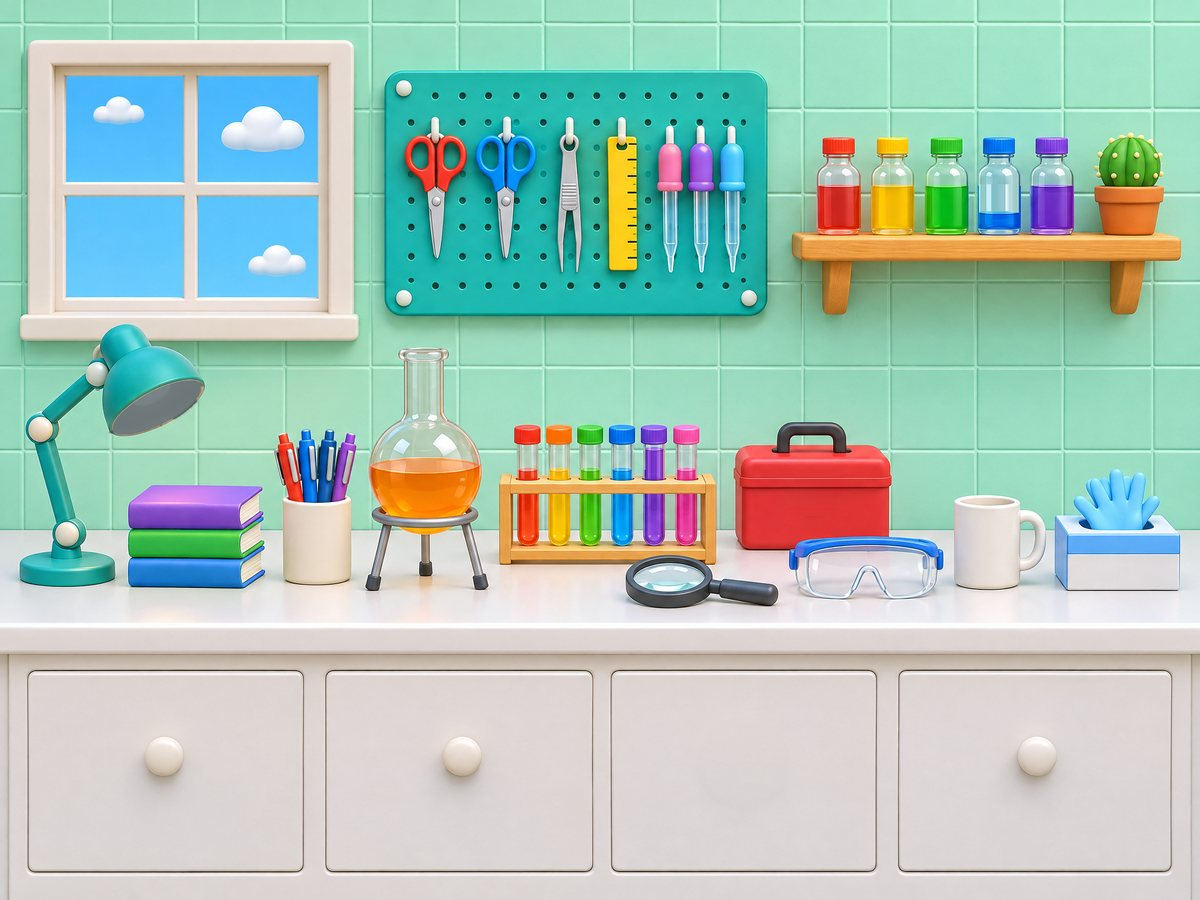
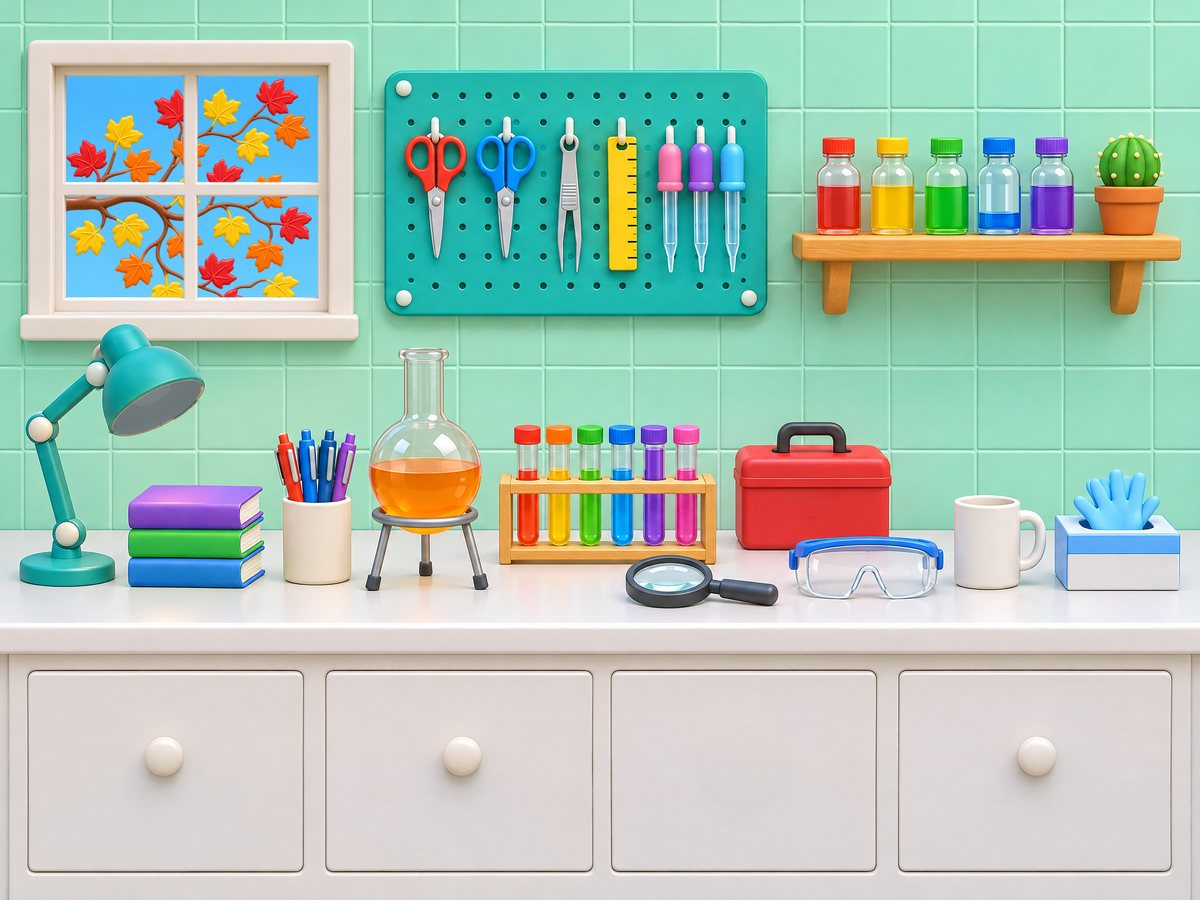
틀린그림 어려움: 창밖 단풍나무(힉스필드) + 잎 하나 색 차이 (v=47)

Changed region(s): [[0.0308, 0.0933, 0.2775, 0.3422]]

diff --git a/app.js b/app.js
@@ -29,7 +29,7 @@ function pauseWhenHidden(getT0, setT0, running) {
 }
 
 const C = { teal: '#0E9F8E', coral: '#EF5350' };
-const V = '?v=46';
+const V = '?v=47';
 const GAMES = [
   { id: 'spot', code: 'EXP-01', icon: 'icon_spot', bg: '#E2F1FF', title: '틀린그림찾기', desc: '실험실 그림 두 장에서 다른 곳 찾기 (쉬움·어려움)', time: '약 5–7분' },
   { id: 'cards', code: 'EXP-02', icon: 'icon_cards', bg: '#FFF1DC', title: '실험실 카드 뒤집기', desc: '단계마다 늘어나는 카드에서 같은 그림 짝 맞추기', time: '약 5–8분' },
@@ -175,7 +175,7 @@ const SPOT_LV = {
     { x: 201, y: 284, r: 22, name: '가운데 서랍 손잡이' },
   ] },
   hard: { label: '어려움', img: 'spot2', time: 120, hints: 0, penalty: 3, diffs: [
-    { x: 51, y: 81, r: 16, name: '창밖 구름 개수(4개→3개)' },
+    { x: 43, y: 77, r: 12, name: '창밖 단풍잎 하나 색(빨강→노랑)' },
     { x: 250, y: 29, r: 11, name: '공구판 오른쪽 위 나사' },
     { x: 229, y: 55, r: 17, name: '스포이트 보라·분홍 색' },
     { x: 333, y: 68, r: 13, name: '선반 파란 병 물 높이' },

diff --git a/index.html b/index.html
@@ -18,11 +18,11 @@
 <link rel="stylesheet" href="https://fonts.googleapis.com/css2?family=IBM+Plex+Mono:wght@500;700&display=swap" media="print" onload="this.media='all'">
 <link rel="preconnect" href="https://cdn.jsdelivr.net" crossorigin>
 <link rel="stylesheet" href="https://cdn.jsdelivr.net/gh/fonts-archive/Paperlogy/Paperlogy.css" media="print" onload="this.media='all'">
-<link rel="stylesheet" href="style.css?v=46">
+<link rel="stylesheet" href="style.css?v=47">
 </head>
 <body>
 <div id="app"></div>
 <div class="rotate" aria-live="polite"><svg viewBox="0 0 64 64" width="64" height="64" aria-hidden="true"><rect x="20" y="6" width="24" height="44" rx="5" fill="none" stroke="currentColor" stroke-width="4"/><path d="M28 43h8" stroke="currentColor" stroke-width="4" stroke-linecap="round"/><path d="M50 30a20 20 0 0 1-12 24M38 54l2-7M38 54l7 1" fill="none" stroke="#FFC93B" stroke-width="4" stroke-linecap="round"/></svg><p>휴대폰을 <b>세로로</b> 돌려 주세요</p></div>
-<script src="app.js?v=46"></script>
+<script src="app.js?v=47"></script>
 </body>
 </html>

diff --git a/hf/build_spot2.py b/hf/build_spot2.py
@@ -101,21 +101,43 @@ DIFFS = []  # (이름, 원본 x, 원본 y, 반지름 원본px)
 def make():
     a = ORIG.copy()
     b = ORIG.copy()
-    # 1) 창밖 구름 개수 (사용자 제안): 그림 A·B 모두 창문 네 칸에 구름을 더 넣고, B에서는 하나를 뺌
-    cx0, cx1, cy0, cy1 = 422, 604, 196, 304
-    cloud = ORIG[cy0:cy1, cx0:cx1].astype(np.float32)
-    cm = np.clip((cloud[..., 0] - 95) / 110, 0, 1)
-    def put_cloud(img, cx, cy, k):
-        hh, ww = cm.shape; nh, nw = int(hh * k), int(ww * k)
-        cs = cv2.resize(cloud, (nw, nh), interpolation=cv2.INTER_AREA); ms = cv2.resize(cm, (nw, nh), interpolation=cv2.INTER_AREA)[..., None]
-        y, x = cy - nh // 2, cx - nw // 2
-        reg = img[y:y + nh, x:x + nw].astype(np.float32)
-        img[y:y + nh, x:x + nw] = (reg * (1 - ms) + cs * ms).clip(0, 255).astype(np.uint8)
-    EXTRA = [(232, 214, 0.62), (300, 470, 0.55), (540, 505, 0.7)]     # 왼쪽 위·왼쪽 아래·오른쪽 아래 칸
-    for i, (x, y, k) in enumerate(EXTRA):
-        put_cloud(a, x, y, k)
-        if i != 1: put_cloud(b, x, y, k)                               # B는 왼쪽 아래 칸 구름이 없음
-    DIFFS.append(('창밖 구름 개수(4개→3개)', 300, 470, 60))
+    # 1) 창밖 단풍나무 (사용자 제안): A·B 모두 창밖에 단풍 가지를 넣고, B는 빨간 잎 하나를 노랑으로
+    #    구름은 지우고(가로 보간), 가지는 유리(하늘색) 부분에만 그려서 창틀 뒤에 있는 것처럼 보이게
+    for img in (a, b):
+        row_fill(img, 422, 604, 196, 304, k=5)
+    spr = np.array(Image.open(os.path.join(RAW, 'maple_v1.png')).convert('RGBA')).astype(np.float32)
+    k = 0.50; WX0, WY0 = 112, 128                                       # 가지 크기·위치 (창 안쪽 128~618, 148~575)
+    spr = cv2.resize(spr, (int(1024 * k), int(1024 * k)), interpolation=cv2.INTER_AREA)
+    sh, sw = spr.shape[:2]
+    # 잎 찾기: 빨간 잎 덩어리 중 창 한 칸 안쪽에 온전히 들어오는 것 하나 고름
+    rgb = spr[..., :3].astype(np.uint8); al = spr[..., 3] > 128
+    hsv = cv2.cvtColor(rgb, cv2.COLOR_RGB2HSV_FULL).astype(np.float32); hh = hsv[..., 0] * 360 / 255
+    red = al & ((hh < 12) | (hh > 345)) & (hsv[..., 1] > 120)
+    yel = al & (hh > 38) & (hh < 62) & (hsv[..., 1] > 120)
+    n, lab, st, cen = cv2.connectedComponentsWithStats(red.astype(np.uint8))
+    panes = [(128, 148, 358, 352), (385, 148, 618, 352), (128, 380, 358, 575), (385, 380, 618, 575)]
+    pick = None
+    for i in range(1, n):
+        x, y, w, h, area = st[i]
+        if area < 300: continue
+        gx0, gy0, gx1, gy1 = WX0 + x, WY0 + y, WX0 + x + w, WY0 + y + h
+        if any(px0 + 6 <= gx0 and gx1 <= px1 - 6 and py0 + 6 <= gy0 and gy1 <= py1 - 6 for px0, py0, px1, py1 in panes):
+            if pick is None or abs(cen[i][0] - sw * 0.55) < abs(cen[pick][0] - sw * 0.55): pick = i
+    leaf = (lab == pick)
+    spr_b = spr.copy()
+    for c in range(3):
+        s_ = spr[..., c][leaf]; r_ = spr[..., c][yel]
+        g = r_.std() / max(s_.std(), 1e-3); o = r_.mean() - g * s_.mean()
+        ch = spr_b[..., c]; ch[leaf] = (s_ * g + o).clip(0, 255)
+    def put_tree(img, sp):
+        reg = img[WY0:WY0 + sh, WX0:WX0 + sw].astype(np.float32)
+        sky = (reg[..., 2] > reg[..., 0] + 60).astype(np.float32)         # 유리(하늘) 부분만
+        sky = cv2.GaussianBlur(sky, (0, 0), 0.8)
+        aa = (sp[..., 3] / 255) * sky
+        img[WY0:WY0 + sh, WX0:WX0 + sw] = (reg * (1 - aa[..., None]) + sp[..., :3] * aa[..., None]).clip(0, 255).astype(np.uint8)
+    put_tree(a, spr); put_tree(b, spr_b)
+    lx, ly = WX0 + int(cen[pick][0]), WY0 + int(cen[pick][1])
+    DIFFS.append(('창밖 단풍잎 하나 색(빨강→노랑)', lx, ly, 40))
     # 2) 공구판 오른쪽 위 나사 없애기: 평평한 청록 면 inpaint
     fill_smooth(b, 1459, 173, 30, ring=12)
     DIFFS.append(('공구판 오른쪽 위 나사', 1458, 171, 40))
